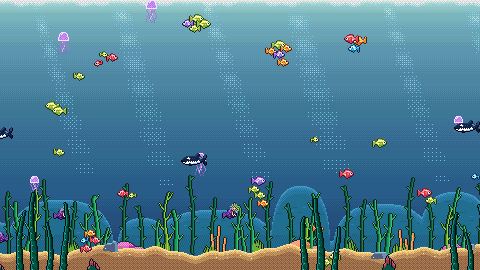
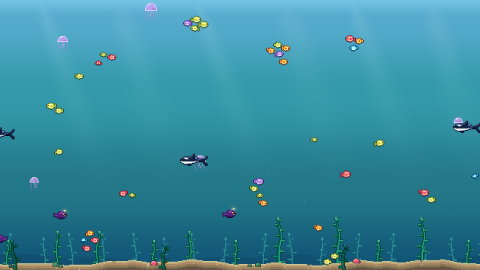
Amiga: README, description, preview, hotter stress list

diff --git a/tools/amiga-backdrop.js b/tools/amiga-backdrop.js
@@ -15,7 +15,7 @@ module.exports = function (H) {
         night:  [[0, '#247'], [0.08, '#236'], [0.35, '#136'], [0.7, '#125'], [1, '#013']],
         dusk:   [[0, '#b87'], [0.12, '#a7a'], [0.4, '#659'], [0.7, '#437'], [1, '#225']],
         day:    [[0, '#6bd'], [0.06, '#5ac'], [0.35, '#39a'], [0.7, '#278'], [1, '#157']],
-        stress: [[0, '#a54'], [0.08, '#a44'], [0.35, '#934'], [0.7, '#723'], [1, '#412']]
+        stress: [[0, '#c46'], [0.08, '#b46'], [0.35, '#a25'], [0.7, '#824'], [1, '#513']]
     };
     // Scanlines are interpolated at 8 bit between the 12-bit key colours: plain 12-bit rows band visibly (and
     // wobble in hue where the channels step on different lines) on a 1080p wallpaper. Smooth, noise-free, no dither.

diff --git a/contents/ui/code/themes.js b/contents/ui/code/themes.js
@@ -53,7 +53,7 @@ var THEMES = [
     {
         id: "amiga",
         name: "Amiga",
-        description: "Late-80s Commodore Amiga look: 12-bit palette, copper-list water gradients, dithered DPaint sprites and parallax.",
+        description: "Calm Commodore Amiga look: a smooth copper-gradient sea, hand-drawn 12-bit sprites on one consistent pixel scale, gently swaying kelp.",
         usesDayNight: true,
         usesWaterColors: false
     },

diff --git a/contents/themes/amiga/README.md b/contents/themes/amiga/README.md
@@ -1,51 +1,80 @@
 # Amiga theme
 
-A late-80s / early-90s Commodore Amiga (OCS/ECS) look in the spirit of James Pond, Shadow of the
-Beast and Deluxe Paint art. Everything is generated by `tools/gen-amiga-theme.js` (+ `tools/amiga-backdrop.js`);
-`node tools/gen-amiga-theme.js` rewrites `img/`, `--check` verifies it (run by `npm test`),
-`--sheet out.png` writes an 8x contact sheet. `preview.png` is the day scene at 1/4 scale (480x270,
-exactly the virtual resolution at 1080p).
+A late-80s / early-90s Commodore Amiga (OCS/ECS) look in the spirit of James Pond, Shadow of the Beast and
+Deluxe Paint underwater art, redesigned as a **calm wallpaper**: it is looked at for hours, so nothing
+flickers, crawls or flashes. The art is generated by `tools/gen-amiga-theme.js` (+ `tools/amiga-backdrop.js`);
+`node tools/gen-amiga-theme.js` rewrites `img/`, `--check` verifies it (run by `npm test`), `--sheet out.png
+[--scale N]` writes a contact sheet. `preview.png` is the day scene at 1/4 scale (480x270).
 
-## Chipset constraints that are emulated
+## Design principles
 
-- **12-bit colour**: every channel of every texel is a multiple of 0x11 (asserted by the generator and
-  by `tests/amiga-theme.test.js`). Gradients are 12-bit levels dithered with each other, never smooth RGB.
-- **Virtual grid**: art texels are shown at `vp` screen px, an integer from the screen height
-  (`vpFor`: 1080p -> 4 = 480x270, 1440p -> 6, 2160p -> 8). Nothing is ever scaled by a fraction; creature
-  sizes pick a hand-drawn size class instead (`kinds[].classes`). Sprite positions are snapped to the grid
-  (`SNAP` in `sync.js`; slow fish therefore advance in whole-pixel steps, like Amiga sprites).
-- **Copper lists**: water is one colour per scanline (800x320 texture, 1 texel = 1 virtual pixel), with an
-  ordered dither only in the seam between two adjacent levels. Four lists: night, dusk/dawn, day, stress.
-  They are cross-faded by `theme.js copperWeights(daylight)`.
-- **Palettes**: sprites use small per-creature ramps (outline, soft outline, 3-4 body tones, belly, fin,
-  marking, eye); the playfield (rocks, kelp, sand, plants) stays within ~32 colours. No alpha: translucency
-  (jelly, light shafts, glow) is checkerboard / Bayer stipple.
-- **Colour cycling**: the light shafts and surface ripples are 6 pre-rendered frames of a DPaint-style
-  cycle range (brightness bands rotate 4 lines per frame), shown at 2.5 fps with one Image whose source switches.
+1. **Calm first.** The backdrop is static art. The only motion in it: kelp that sways a few whole pixels
+   (one 14 s loop, updated 10x/s) and ~20 specks of marine snow drifting down. No colour cycling, no
+   full-screen layer that pulses, no stipple. `tests/amiga-measure.js` proves it: with no creatures at most
+   2 % of the screen differs between any two frames 0.1-10 s apart and no pixel changes faster than 2 Hz.
+2. **Smooth glide, crisp pixels.** Sprites keep nearest-neighbour art but are NOT snapped to the art grid.
+   Each sim tick (25 Hz) writes a new target; one shared vsync tween (`EntityLayer.t`, as long as 1.35x the
+   smoothed tick interval, so late/early ticks do not stutter) interpolates every sprite, and the sprite lands
+   on whole *screen* pixels (`Math.round`), never on texel boundaries. No per-sprite animation objects.
+3. **One art-pixel scale.** `vp = round(height / 360)` screen px per art pixel (1080p: 3, i.e. 640x360).
+   Every sprite and every piece of scenery uses it. The size sliders pick the nearest hand-drawn class
+   (`kinds[].classes`) or an integer magnification `mul` of one; art is never scaled by a fraction.
+4. **Eye comfort.** Water = a smooth copper gradient (one colour per scanline, 540 scanlines, 12-bit key
+   colours interpolated at 8 bit: plain 12-bit rows band and wobble in hue at 1080p). No full-screen dither of
+   any kind. Mean luminance is moderate; creatures are the brightest, most saturated things on screen; the
+   seabed, kelp and foreground plants are muted, and foreground plants are dark and slightly translucent.
+5. **Craft.** Hand-placed ASCII sprites (`FISH_ART`, `ANGLER_ART`, ...). Outline policy: opaque creatures
+   longer than 7 art px get a 1 px outline in a dark shade of their own hue (softer on the lit top edge);
+   translucent jellies a bright rim; tiny sprites (newborn fish, worm, bubbles) none. Light comes from above
+   (creatures are mirrored when they swim left, so their shading is top-lit and left/right symmetric; scenery
+   is lit from the top left). Palette discipline (tested): all sprite and scenery colours are 12-bit, the
+   playfield (sand, hills, kelp) uses <= 32 colours, every fish ramp <= 16, no orphan pixels.
+
+## Sizes (1080p, default settings)
+
+fish 12x9 art px = 36x27 px (size variation 10x7 / 14x10 = -17 % / +17 %; newborns 7x5, 5x4), angler 18x14 =
+54 px (1.5 fish), orca 37x17 = 111 px (3 fish), jelly bell 12 wide (10-16 by size), worm 3x4 (12 px), bubbles
+2-4 art px (6-12 px). Seabed (sand + props) < 6 % of the screen height, tallest kelp 19 %, foreground plants
+< 14 %.
 
 ## Layers (back to front)
 
-copper lists - shafts/ripples (cycled) - far rocks (parallax drift 0.4 vp/s) - kelp + corals (4 sway frames,
-two depths, 0.8 vp/s) - sand - **creatures** - near plants (4 sway frames, 1.6 vp/s) - night fade.
-One 5 Hz tick (stopped when `paused`) steps the frames and the drift in whole virtual pixels.
+copper lists (night | dusk | day, cross-faded with the day cycle) - static soft light shafts (alpha) - far
+hills - hazy back plants - kelp + weed - sand with rocks and corals - marine snow - night shade over the
+scenery - **creatures** - foreground plants.
+Plants are stacks of 6-row slices shifted sideways by whole screen pixels (0 at the base, up to ~5 px at the
+tip): no shear or resampling, which shimmers.
 
 ## Creatures
 
-Fish: 4 size classes (6x5 newborn, 9x7, 12x9, 15x10) x 5 colours x 4 tail frames; stress adds 2 flush
-palettes per colour (1/3, 2/3 towards red, mixed in OKLCH and snapped to 12-bit), `red` and `alarm`.
-Orca 26x13 (faces left like the simulation's flag), angler 15x12 + lure bulb/halo overlays,
-jelly 2 classes (11x19, 15x25, dithered), worm 7x13, bubbles 3 classes, newborn sparkle. All 4 frames
-where animated (beat from speed, bell pulse and wiggle from the simulation's phases).
+Fish: 5 hand-drawn sizes x 5 colours x 4 tail frames (neutral, up, neutral, down, about one flap per second at
+cruising speed; every animation is capped at 3 frames/s); stress adds 2 flush palettes per colour (1/3, 2/3
+towards red, mixed in OKLCH and snapped to 12-bit), `red` and `alarm`. Orca (faces left like the simulation's
+flag), angler with a lure bulb that changes brightness at ~0.2 Hz and a soft glow, jelly (real alpha, pulse
+flattens the bell a row), worm, bubbles, newborn sparkle (a small star in two slow positions).
 
 ## Stress and night
 
-- Level 0..3: fish swap to pre-coloured palettes; the stress copper list fades in (quarter steps) and a red
-  tint is laid over the playfield. Shake is in whole virtual pixels.
-- Above 1.2 the affected fish flip between `red` and `alarm` (~1.25 Hz, desynchronised per fish); the
-  background does not flash.
-- Night: night copper list, a playfield fade and a light fade over everything (one blended rectangle each).
+- Level 0..1.2: fish swap to pre-coloured palettes and tremble up to one art pixel (a 3 Hz sine, not random
+  jumps); the water slowly (1.5 s) fades to a hot list. The swap shows ONE opaque pre-mixed copper list
+  (`copper-stress-<base>-<k>.png`) instead of a full-screen blend, so a stressed sea costs no more than a
+  calm one once settled.
+- Above 1.2 the affected fish alternate slowly between `red` and `alarm` (1 cycle/s, desynchronised per fish);
+  the background never flashes.
+- Night: the night copper list, plus a navy shade over the lower part of the scenery (soft top edge).
+
+## What changed from the first version
+
+Flicker came from: light shafts and surface ripples colour-cycled at 2.5 fps over large areas, 5 Hz timers
+stepping kelp/drift, all sprites snapped to a 4 px grid at 25 Hz (stepped crawl), tail frames driven by speed
+at up to 12 frames/s, a 4 Hz sparkle and ~1-2 Hz lure flicker, dithered rays and seams. Proportions came from
+per-class bitmaps with unrelated scales (a 78-row near plant, kelp 35 % of the screen, a 7x13 worm). All of
+that is gone: static backdrop, one scale, hand-drawn classes, slow animation. A latent bug is also fixed:
+`Core.stressLevel()` is not 0 for a calm sim, which tinted the old backdrop permanently.
 
 ## Cost
 
-Shared textures, pooled delegates (`EntityLayer.qml`), no per-entity layer/effect/Canvas. Fixed ambient:
-4 full-screen copper images (only visible ones are drawn), 1 shaft image, ~4 tiles per strip, 3 rectangles.
+Shared textures, pooled delegates (`EntityLayer.qml`), no per-entity layer/effect/Canvas/timer. Fixed ambient:
+1-2 copper images (an opaque list hides the ones below), 1 ray image, ~130 plant slices (bindings update at
+10 Hz), 20 specks. Everything stops when `paused`. The one per-frame cost is the shared tween: every sprite
+binds `x`/`y` to it.
